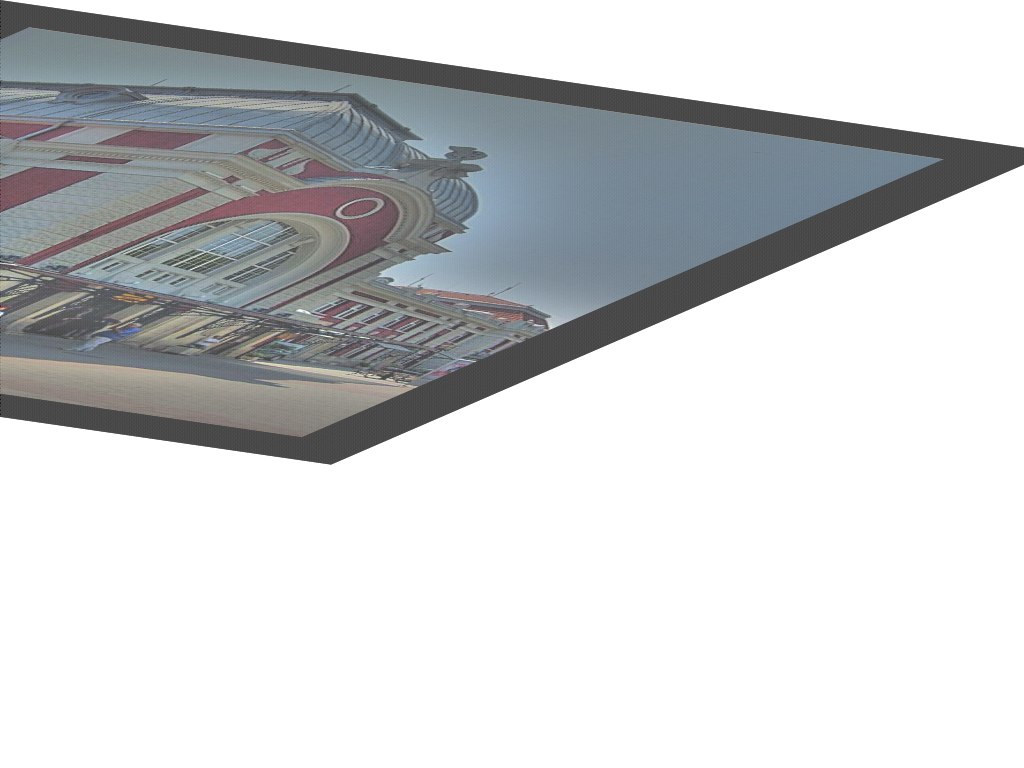
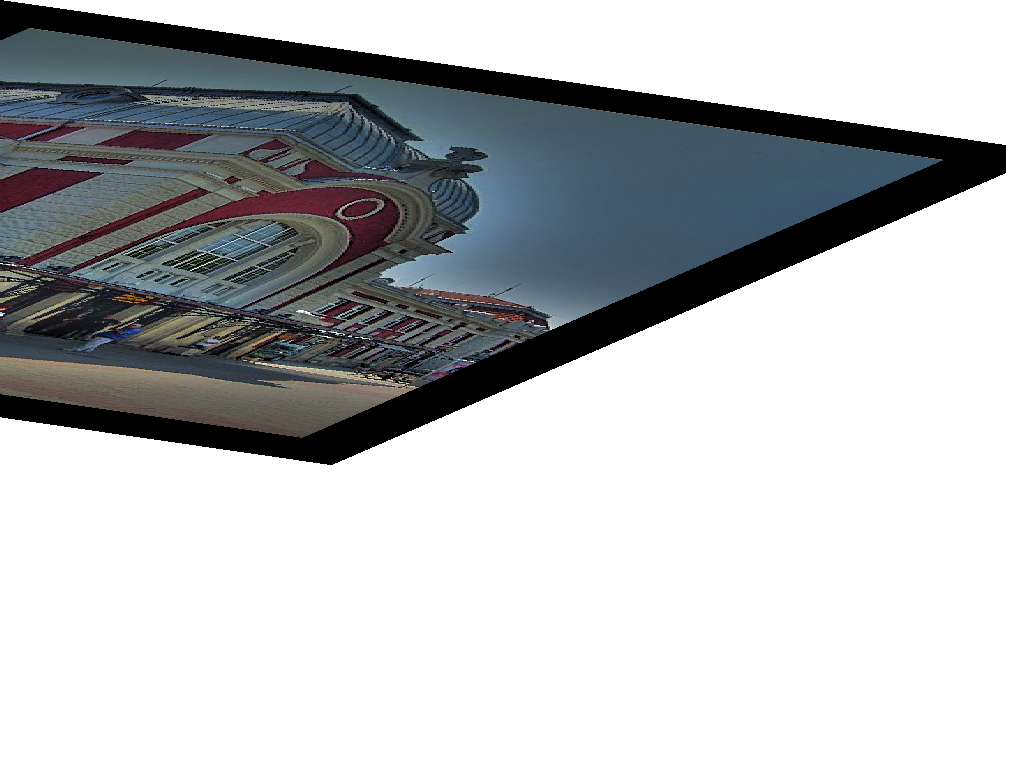
linear, bilinear, bicubic image transformation with no optimisation

diff --git a/draw2d/draw2d.go b/draw2d/draw2d.go
@@ -6,6 +6,7 @@ import (
 	"exp/draw"
 	"image"
 	"log"
+	"math"
 	"freetype-go.googlecode.com/hg/freetype"
 	"freetype-go.googlecode.com/hg/freetype/raster"
 )
@@ -198,33 +199,103 @@ func (gc *ImageGraphicContext) Restore() {
 		oldContext.previous = nil
 	}
 }
+//see http://pippin.gimp.org/image_processing/chap_resampling.html
+func getColorLinear(img image.Image, x, y float64) image.Color {
+	return img.At(int(x), int(y))
+}
 
-func (gc *ImageGraphicContext) DrawImage(image image.Image) {
-	width := raster.Fix32(gc.img.Bounds().Dx() * 256)
-	height := raster.Fix32(gc.img.Bounds().Dy() * 256)
+func getColorBilinear(img image.Image, x, y float64) image.Color {
+	x0 := math.Floor(x)
+	y0 := math.Floor(y)
+	dx := x - x0
+	dy := y - y0
 
-	p0 := raster.Point{0, 0}
-	p1 := raster.Point{0, 0}
-	p2 := raster.Point{0, 0}
-	p3 := raster.Point{0, 0}
-	var i raster.Fix32 = 0
-	for ; i < width; i += 256 {
-		var j raster.Fix32 = 0
-		for ; j < height; j += 256 {
-			p0.X, p0.Y = i, j
-			p1.X, p1.Y = p0.X+256, p0.Y
-			p2.X, p2.Y = p1.X, p0.Y+256
-			p3.X, p3.Y = p0.X, p2.Y
+	color0 := img.At(int(x0), int(y0))
+	color1 := img.At(int(x0+1), int(y0))
+	color2 := img.At(int(x0+1), int(y0+1))
+	color3 := img.At(int(x0), int(y0+1))
 
-			gc.current.tr.TransformRasterPoint(&p0, &p1, &p2, &p3)
-			gc.fillRasterizer.Start(p0)
-			gc.fillRasterizer.Add1(p1)
-			gc.fillRasterizer.Add1(p2)
-			gc.fillRasterizer.Add1(p3)
-			gc.fillRasterizer.Add1(p0)
-			gc.painter.SetColor(image.At(int(i>>8), int(j>>8)))
-			gc.fillRasterizer.Rasterize(gc.painter)
-			gc.fillRasterizer.Clear()
+	return lerp(lerp(color0, color1, dx), lerp(color3, color2, dx), dy)
+}
+/**
+-- LERP
+-- /lerp/, vi.,n.
+--
+-- Quasi-acronym for Linear Interpolation, used as a verb or noun for
+-- the operation. "Bresenham's algorithm lerps incrementally between the
+-- two endpoints of the line." (From Jargon File (4.4.4, 14 Aug 2003)
+*/
+func lerp(c1, c2 image.Color, ratio float64) image.Color {
+	r1, g1, b1, a1 := c1.RGBA()
+	r2, g2, b2, a2 := c2.RGBA()
+	r := int(float64(r1)*(1-ratio) + float64(r2)*ratio)
+	g := int(float64(g1)*(1-ratio) + float64(g2)*ratio)
+	b := int(float64(b1)*(1-ratio) + float64(b2)*ratio)
+	a := int(float64(a1)*(1-ratio) + float64(a2)*ratio)
+	return image.RGBAColor{uint8(r >> 8), uint8(g >> 8), uint8(b >> 8), uint8(a >> 8)}
+}
+
+
+func getColorCubicRow(img image.Image, x, y, offset float64) image.Color {
+	c0 := img.At(int(x), int(y))
+	c1 := img.At(int(x+1), int(y))
+	c2 := img.At(int(x+2), int(y))
+	c3 := img.At(int(x+3), int(y))
+	r0, g0, b0, a0 := c0.RGBA()
+	r1, g1, b1, a1 := c1.RGBA()
+	r2, g2, b2, a2 := c2.RGBA()
+	r3, g3, b3, a3 := c3.RGBA()
+	r, g, b, a := cubic(offset,float64(r0),float64(r1),float64(r2),float64(r3)), cubic(offset,float64(g0),float64(g1),float64(g2),float64(g3)), cubic(offset,float64(b0),float64(b1),float64(b2),float64(b3)), cubic(offset,float64(a0),float64(a1),float64(a2),float64(a3))
+  return image.RGBAColor{uint8(r >> 8), uint8(g >> 8), uint8(b >> 8), uint8(a >> 8)}
+}
+
+func getColorBicubic(img image.Image, x, y float64) image.Color {
+	x0 := math.Floor(x)
+	y0 := math.Floor(y)
+	dx := x - x0
+	dy := y - y0
+
+	c0 := getColorCubicRow(img, x0-1, y0-1, dx)
+	c1 := getColorCubicRow(img, x0-1, y0, dx)
+	c2 := getColorCubicRow(img, x0-1, y0+1, dx)
+	c3 := getColorCubicRow(img, x0-1, y0+2, dx)
+	r0, g0, b0, a0 := c0.RGBA()
+	r1, g1, b1, a1 := c1.RGBA()
+	r2, g2, b2, a2 := c2.RGBA()
+	r3, g3, b3, a3 := c3.RGBA()
+	r, g, b, a := cubic(dy,float64(r0),float64(r1),float64(r2),float64(r3)), cubic(dy,float64(g0),float64(g1),float64(g2),float64(g3)), cubic(dy,float64(b0),float64(b1),float64(b2),float64(b3)), cubic(dy,float64(a0),float64(a1),float64(a2),float64(a3))
+	return image.RGBAColor{uint8(r >> 8), uint8(g >> 8), uint8(b >> 8), uint8(a >> 8)}
+}
+
+func cubic(offset,v0,v1,v2,v3 float64) uint32{
+  // offset is the offset of the sampled value between v1 and v2
+   return   uint32((((( -7 * v0 + 21 * v1 - 21 * v2 + 7 * v3 ) * offset +
+               ( 15 * v0 - 36 * v1 + 27 * v2 - 6 * v3 ) ) * offset +
+               ( -9 * v0 + 9 * v2 ) ) * offset + (v0 + 16 * v1 + v2) ) / 18.0);
+}
+
+func compose(c1, c2 image.Color) image.Color {
+	r1, g1, b1, a1 := c1.RGBA()
+	r2, g2, b2, a2 := c2.RGBA()
+	ia := M - a2
+	r := ((r1 * ia) / M) + r2
+	g := ((g1 * ia) / M) + g2
+	b := ((b1 * ia) / M) + b2
+	a := ((a1 * ia) / M) + a2
+	return image.RGBAColor{uint8(r >> 8), uint8(g >> 8), uint8(b >> 8), uint8(a >> 8)}
+}
+
+func (gc *ImageGraphicContext) DrawImage(img image.Image) {
+	width := float64(gc.img.Bounds().Dx())
+	height := float64(gc.img.Bounds().Dy())
+	gc.current.tr.Transform(&width, &height)
+	var x, y, u, v float64
+	for x = 0; x < width; x++ {
+		for y = 0; y < height; y++ {
+			u = x
+			v = y
+			gc.current.tr.InverseTransform(&u, &v)
+			gc.img.Set(int(x), int(y), compose(gc.img.At(int(x), int(y)), getColorLinear(img, u, v)))
 		}
 	}
 }
